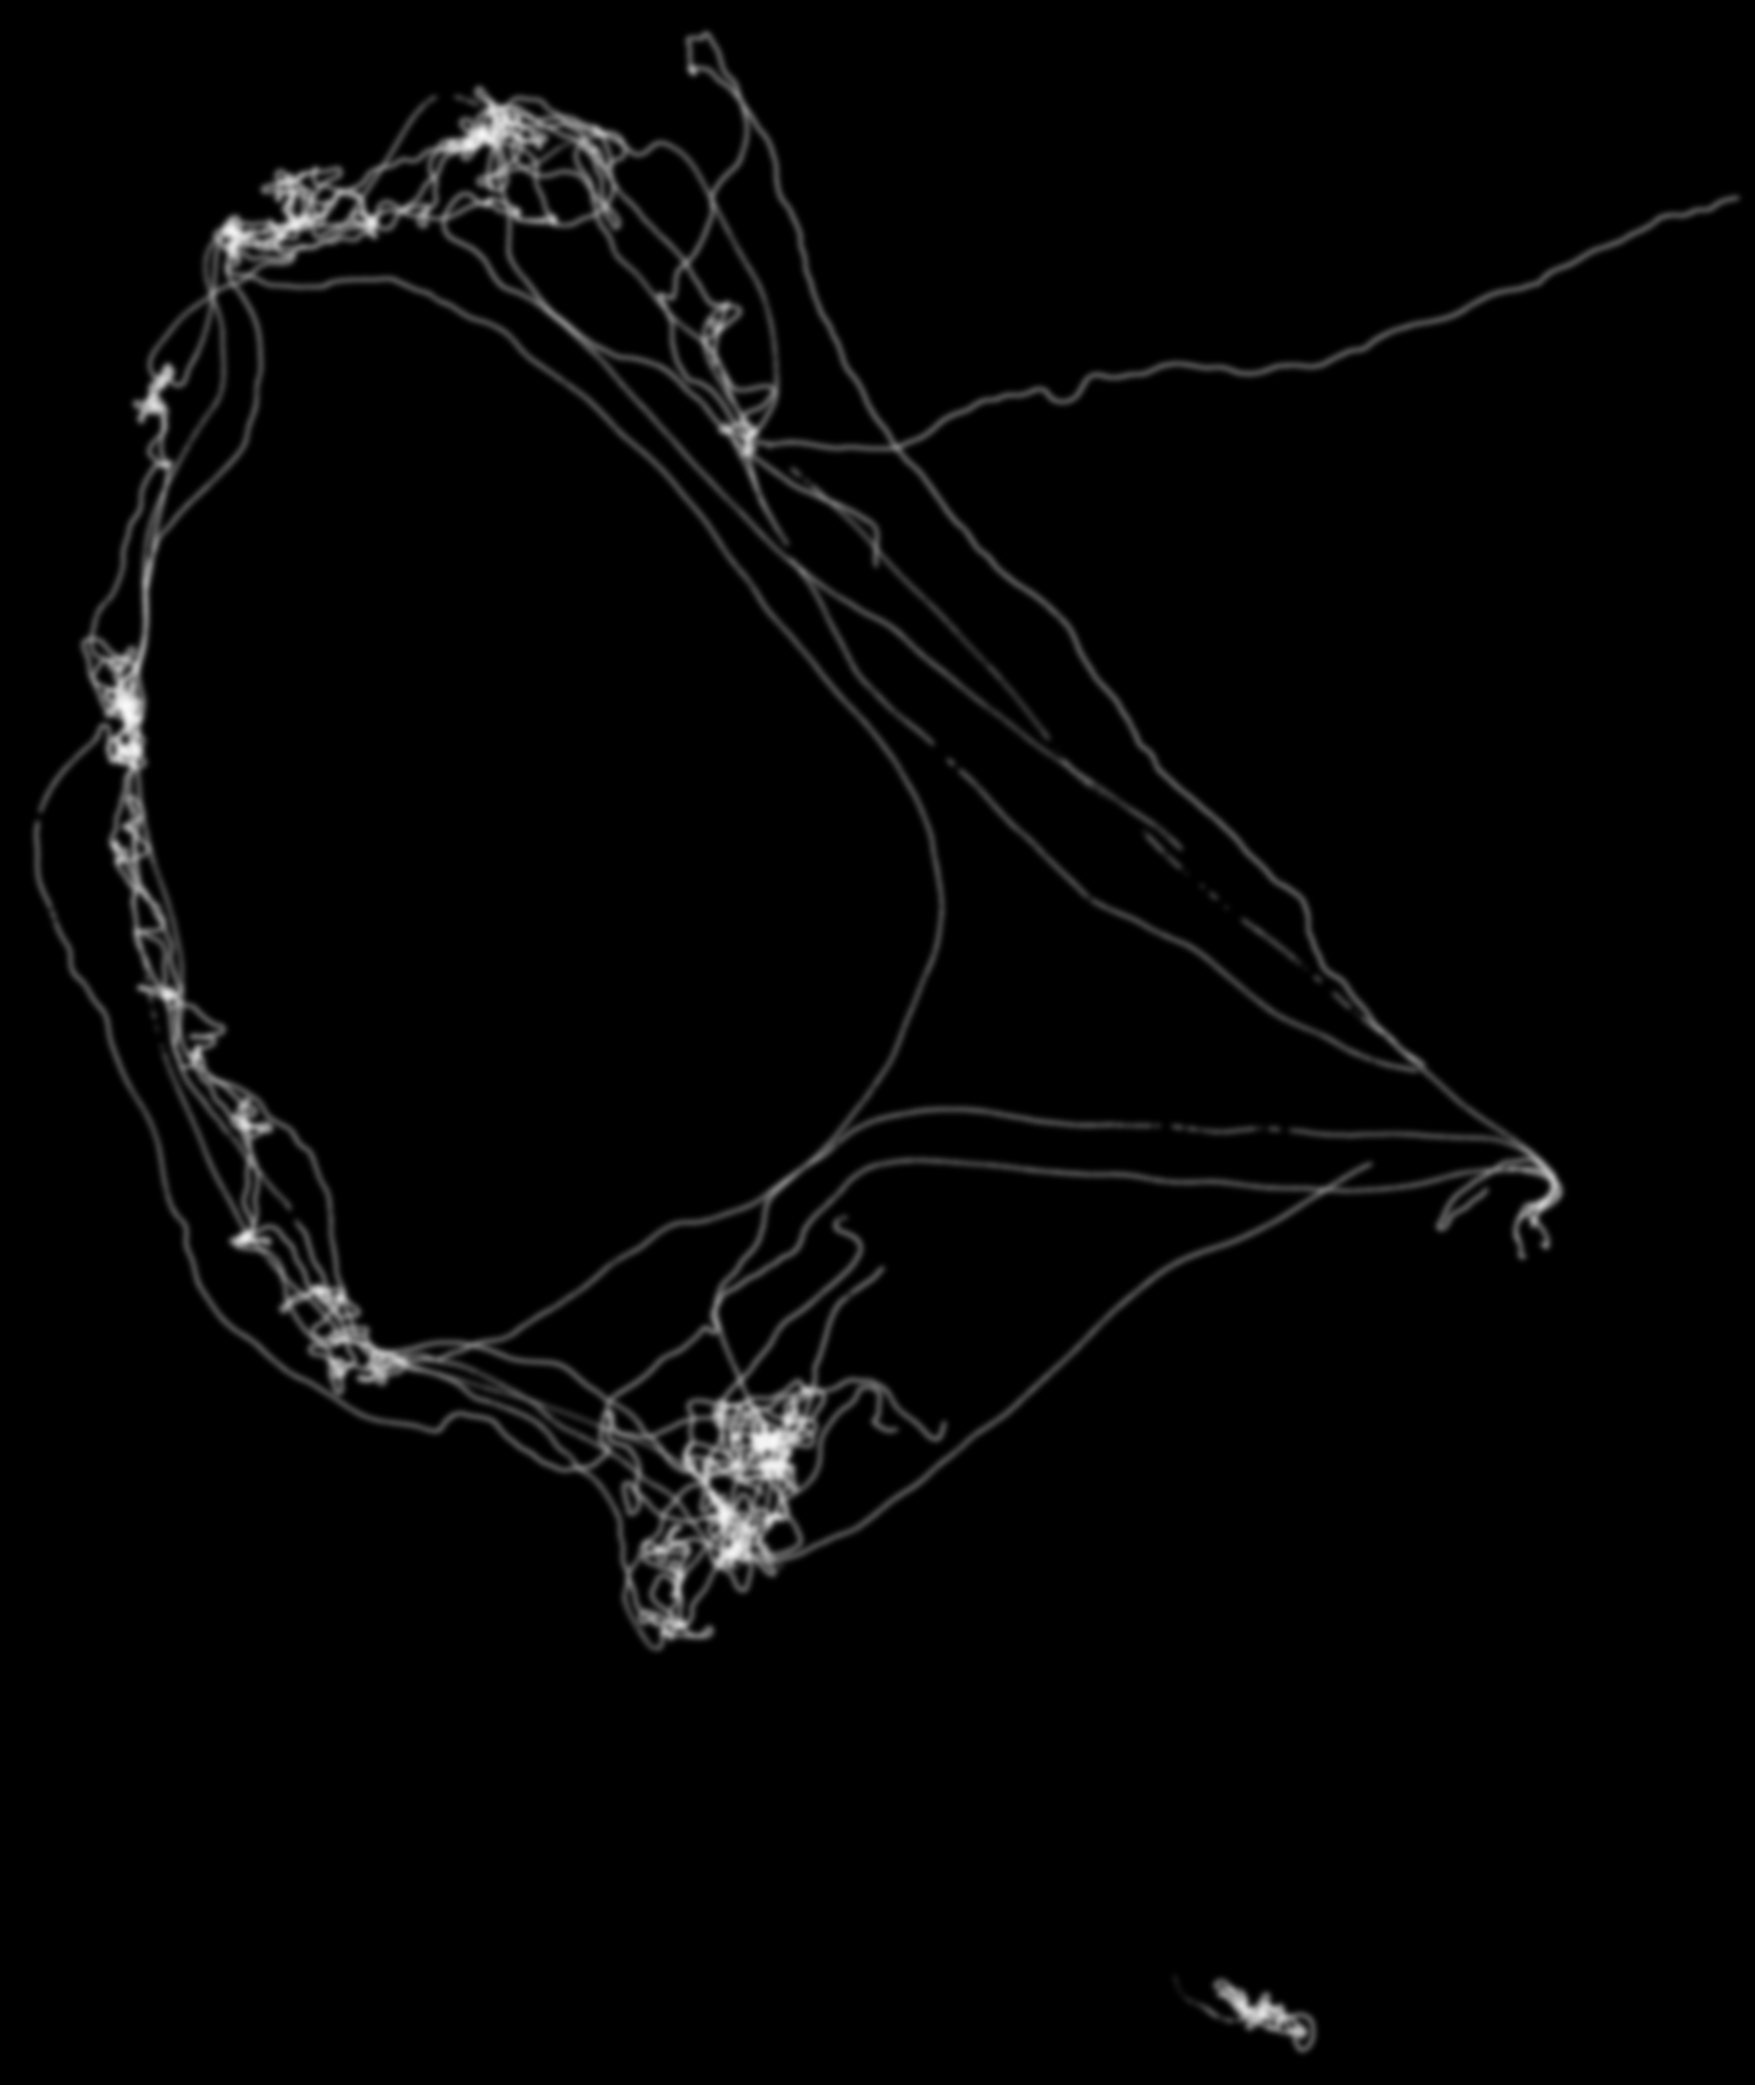
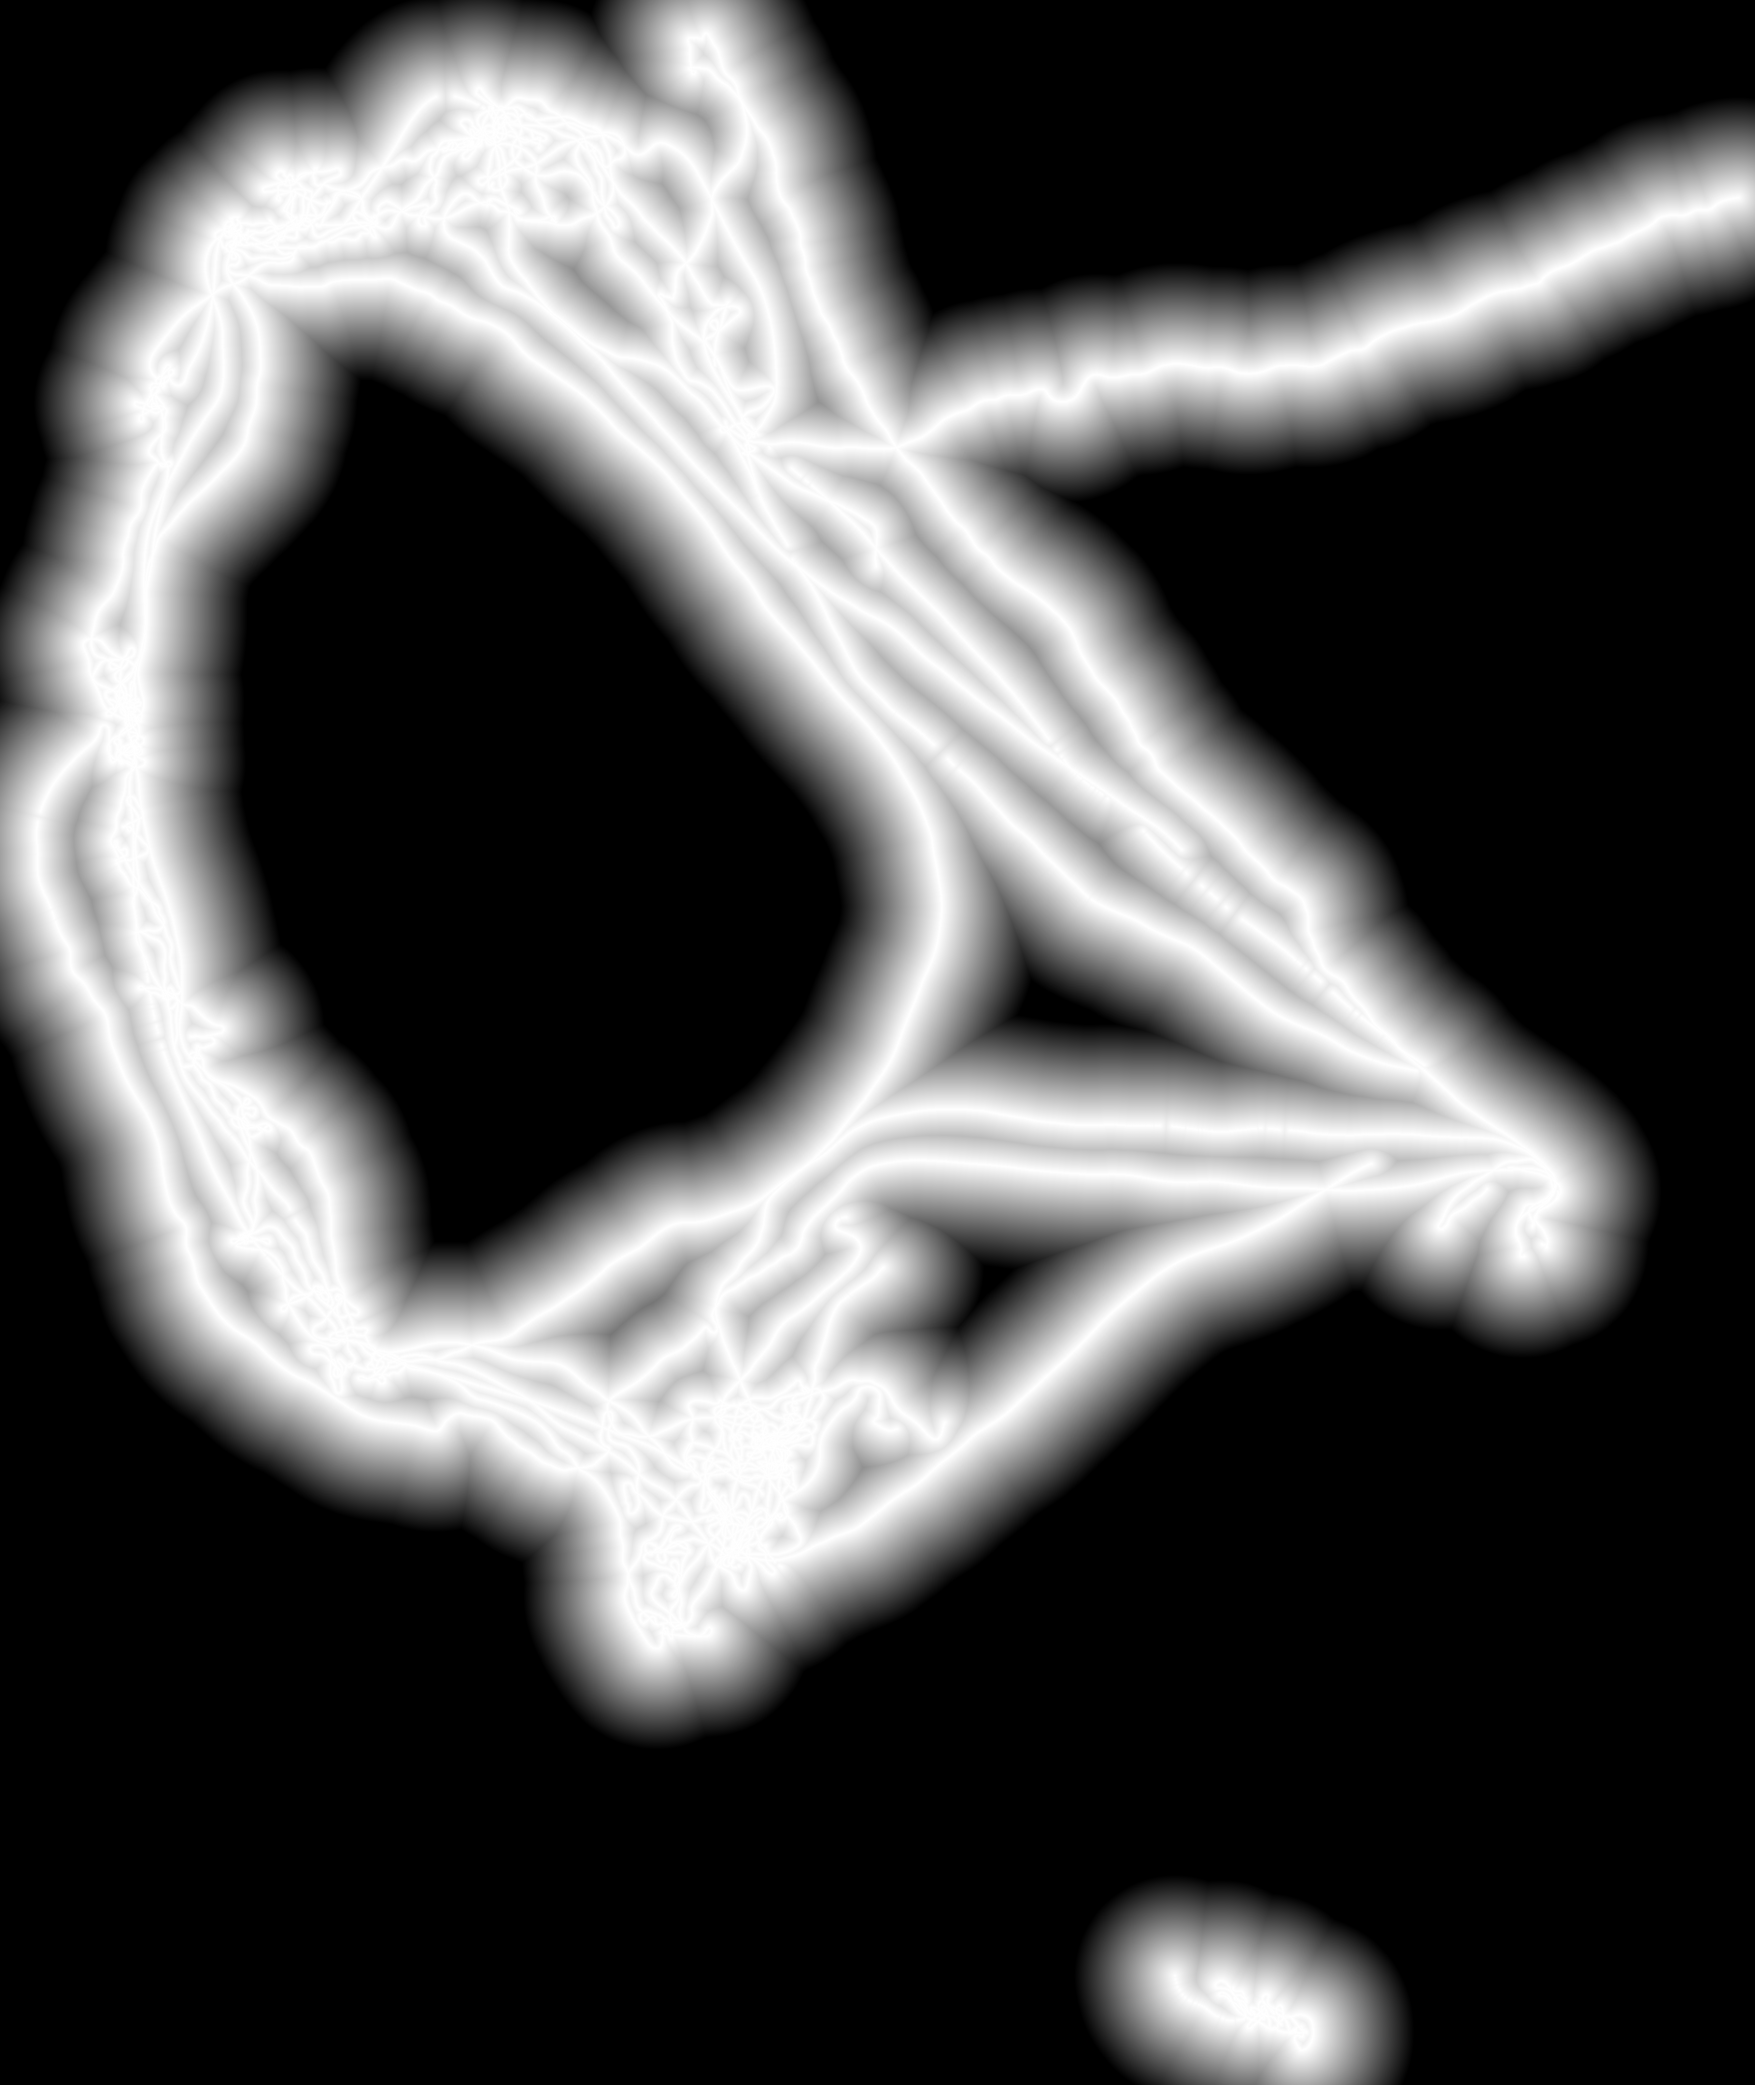
Ekolod: sammanfogad djupkarta (crossover-utjämning + TIN-interpolation)

diff --git a/ekolod/index.html b/ekolod/index.html
@@ -104,7 +104,7 @@ input[type=range]{width:100%;accent-color:var(--chili)}
   <div style="margin-top:6px">Höjdförstärkning <b id="exv">4×</b></div>
   <input type="range" id="ex" min="1" max="12" step="0.5" value="4">
   <p class="note">Klicka på ett spår eller en nål för att se ekolodsbilden från just där. Dubbelklicka (dubbeltryck på mobilen) för att centrera kartan där.
-  Botten är byggd i ca 2 m upplösning där du har kört (427 000 lodningar), annars EMODnet (~100 m). "Markera egen data" gråar ut det som inte är uppmätt av dig.
+  Alla 10 turer är sammanfogade till en yta: dagarnas vattenstånd är utjämnade där spåren korsar varandra, och mellanrummen är interpolerade. Skarpt (ca 2 m) där du har kört, mjukare mellan spåren, EMODnet långt ut. "Markera egen data" gråar ut det som ligger långt från dina lodningar.
   Fynd är automatiskt hittade och handgranskade – men det är en tolkning, inte en dykning.</p>
   </div>
 </div>
